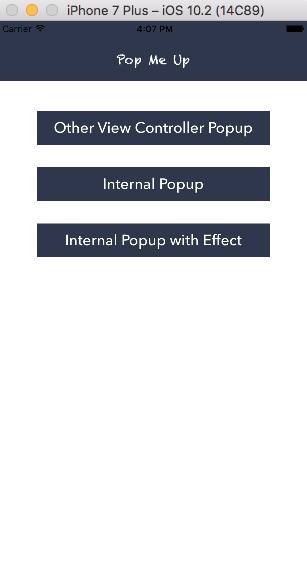
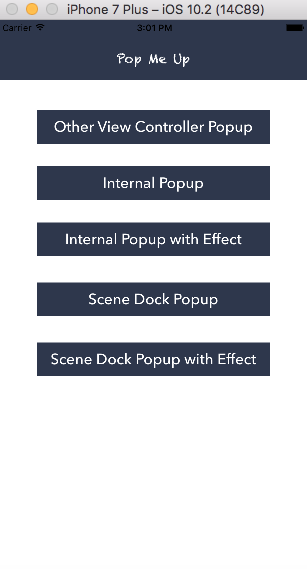
Added scene dock popup view

diff --git a/PopMeUp/ViewController.swift b/PopMeUp/ViewController.swift
@@ -14,10 +14,13 @@ class ViewController: UIViewController {
 
     @IBOutlet weak var btnCancel: UIButton!
     
+    @IBOutlet var popView: UIView!
     
     override func viewDidLoad() {
         super.viewDidLoad()
     }
+    
+    //Internal PopupView
     @IBAction func openInter(_ sender: Any) {
         self.popConstraint.constant = 0
         
@@ -27,7 +30,7 @@ class ViewController: UIViewController {
         }
     }
     
-    
+
     @IBAction func openBounce(_ sender: Any){
         self.popConstraint.constant = 0
         
@@ -47,6 +50,23 @@ class ViewController: UIViewController {
         UIView.animate(withDuration: 0.2) {
             self.view.layoutIfNeeded()
         }
+        
+        popView.removeFromSuperview()
+    }
+    
+    //Scene Dock
+    @IBAction func scneDockPop(_ sender: UIButton) {
+        popView.center = view.center
+        view.addSubview(popView)
+        self.btnCancel.alpha = 0.85
+    }
+    @IBAction func sceneDockPopEffect(_ sender: UIButton) {
+        
+    }
+    
+    @IBAction func popViewClose(_ sender: UIButton) {
+        self.btnCancel.alpha = 0
+        popView.removeFromSuperview()
     }
 }
 
